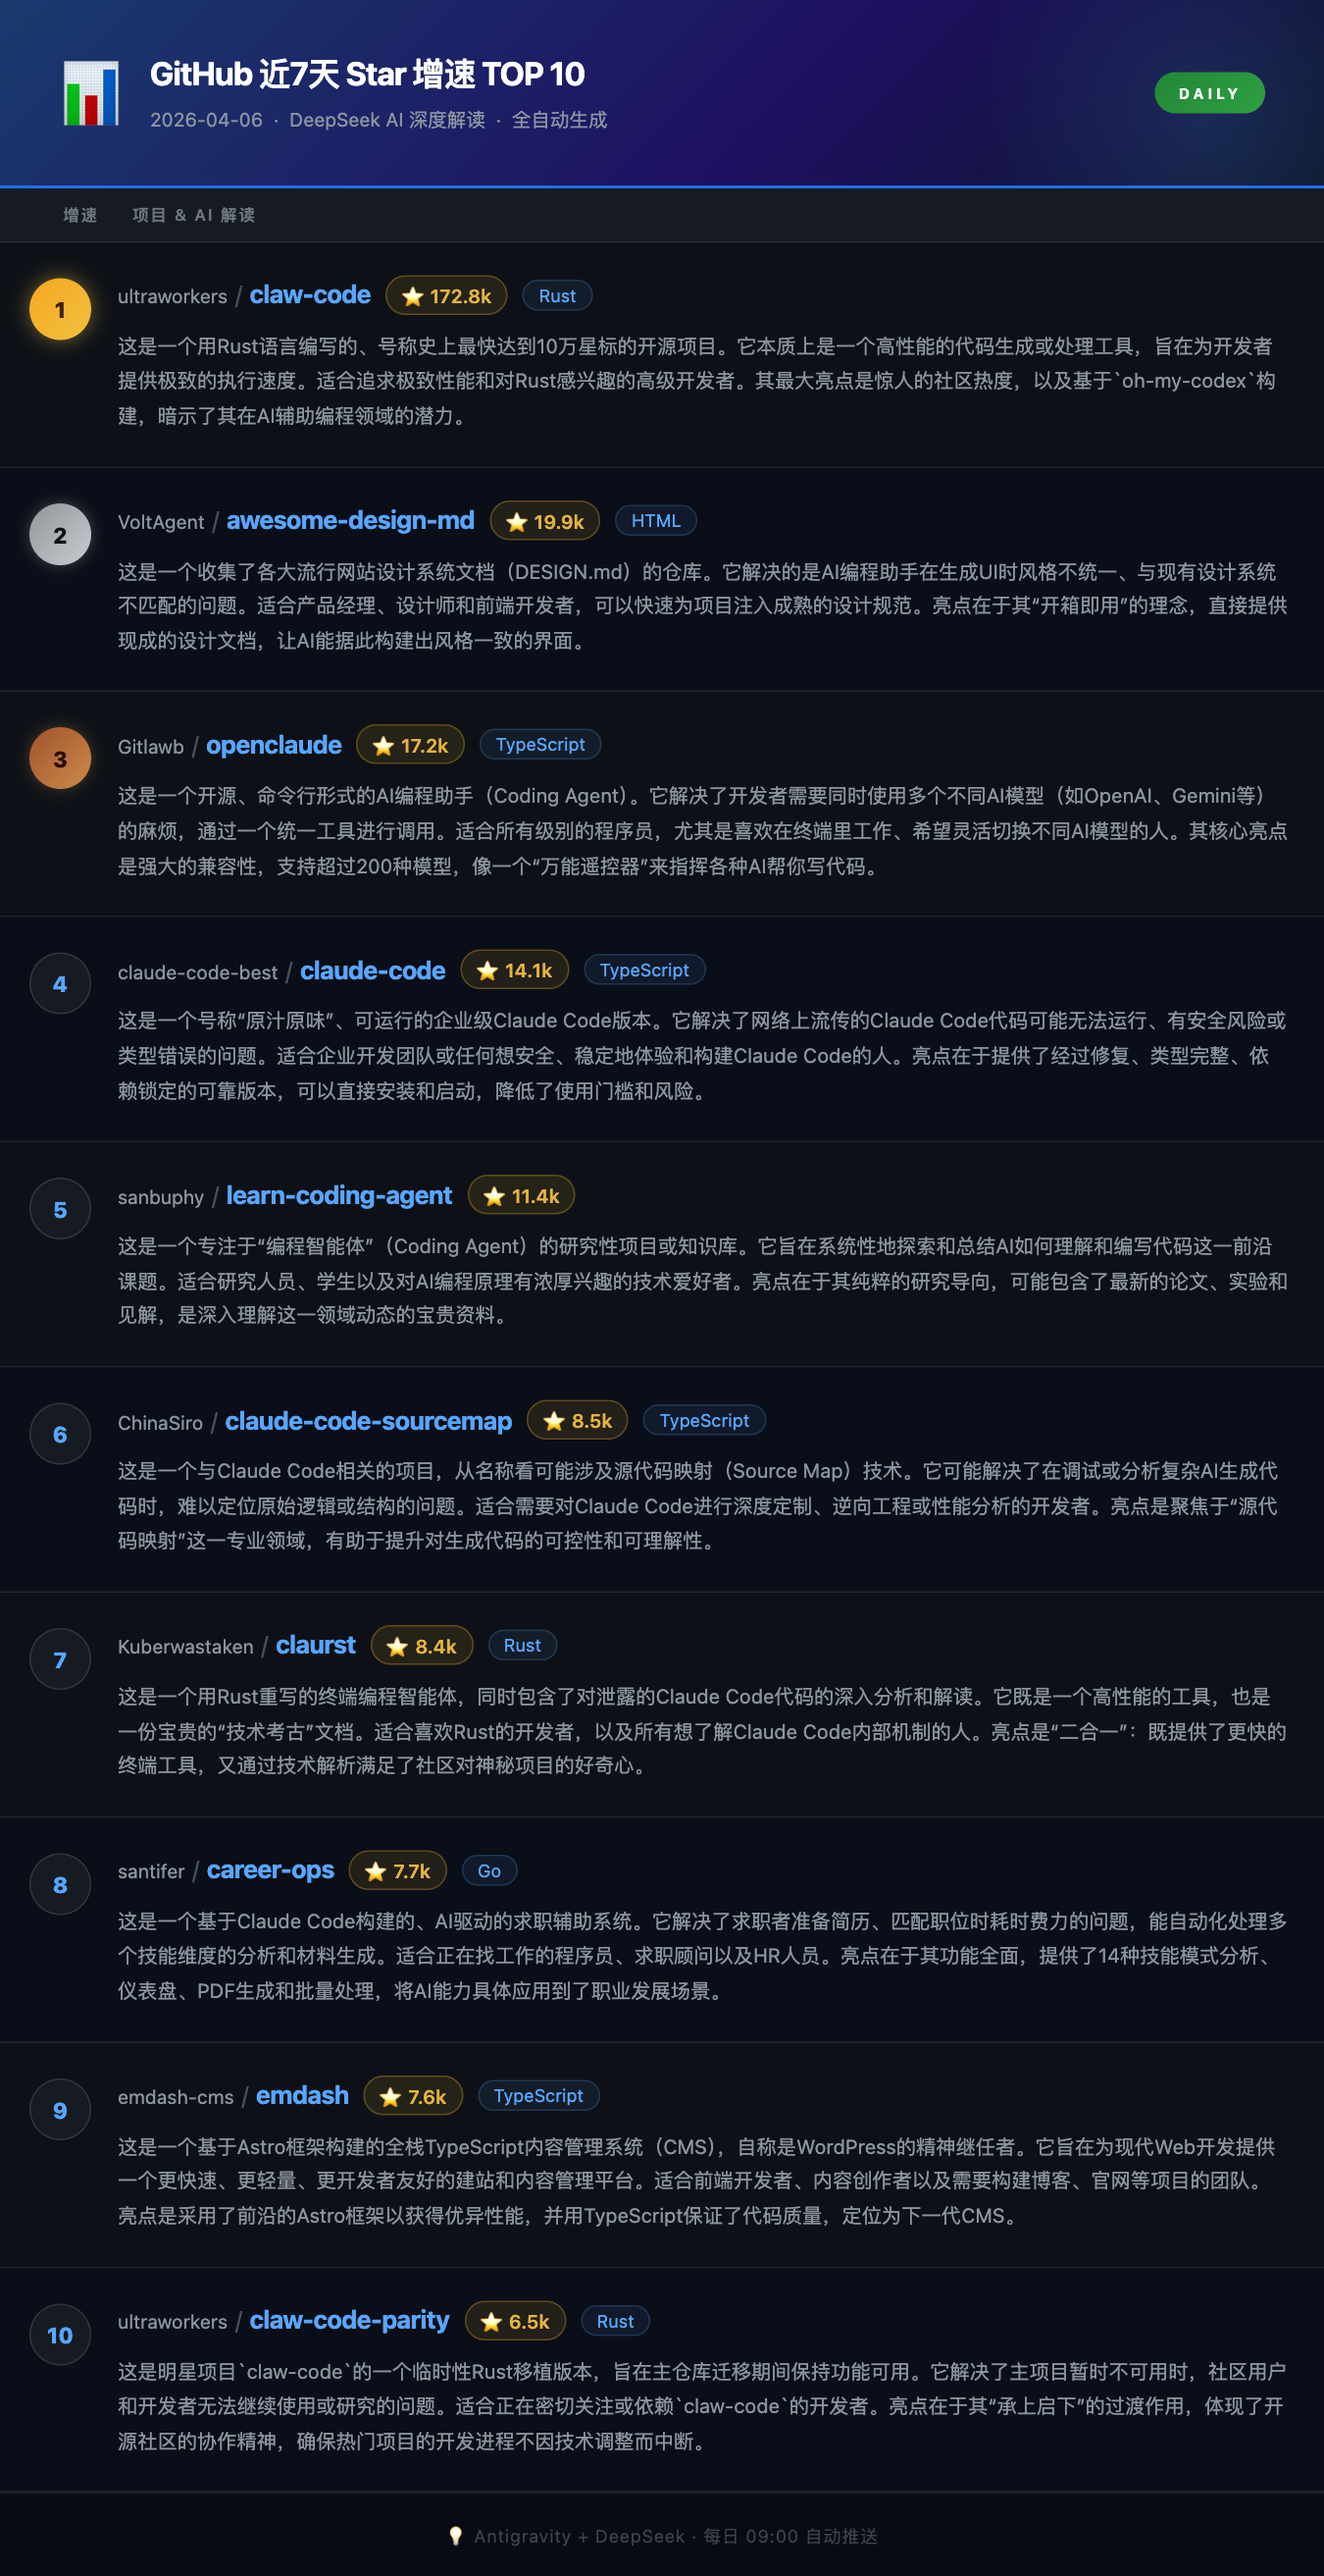
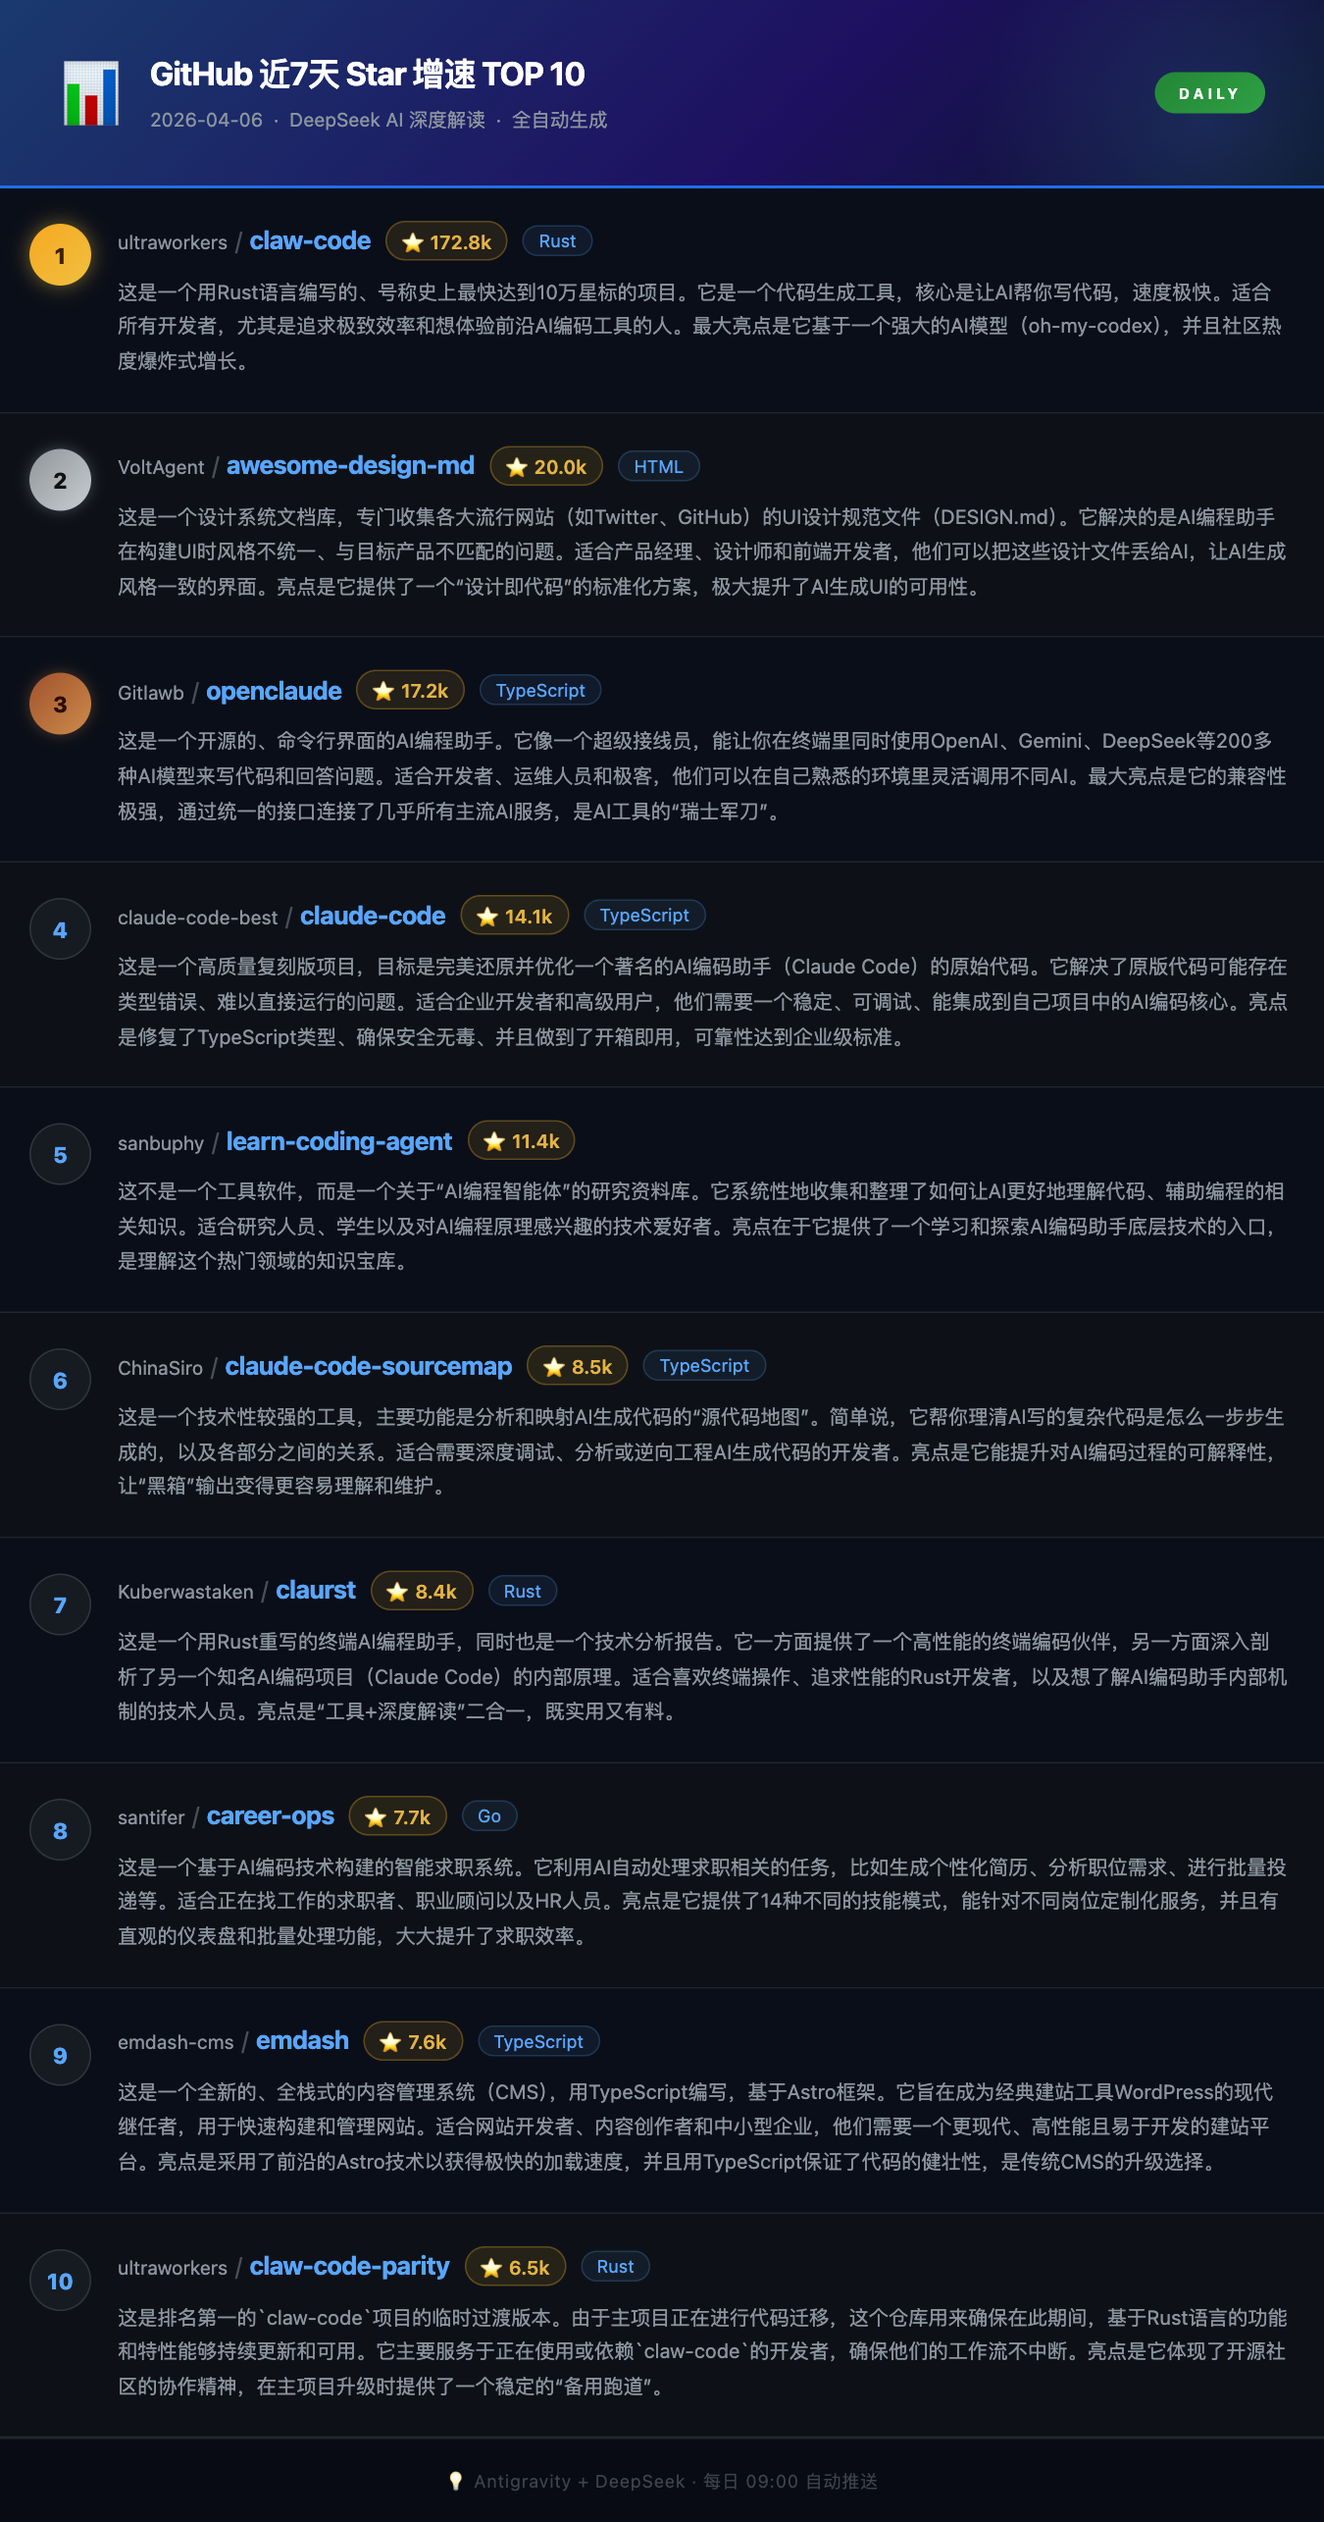
🔧 Remove col-header, add companion link message, fix send functions

diff --git a/main.py b/main.py
@@ -225,10 +225,7 @@ def generate_html(repos, summaries, today):
         </div>
         <div class="daily-badge">DAILY</div>
     </div>
-    <div class="col-header">
-        <div class="ch-rank">增速</div>
-        <div class="ch-project">项目 &amp; AI 解读</div>
-    </div>
+
     {rows_html}
     <div class="footer">💡 Antigravity + DeepSeek · 每日 09:00 自动推送</div>
 </div></body></html>"""
@@ -248,15 +245,8 @@ def render_image(html_content):
 
 
 
-def send_dingtalk_markdown_image(image_url, today):
-    """通过 Markdown 消息嵌入 GitHub Raw 图片 URL 推送钉钉（无大小限制）。"""
-    print(f"📨 正在推送至钉钉: {image_url}")
-    title = f"GitHub 近7天 Star 增速 TOP 10 · {today}"
-    text = f"### 📊 {title}\n\n![GitHub Trending]({image_url})"
-    payload = {
-        "msgtype": "markdown",
-        "markdown": {"title": title, "text": text},
-    }
+def _post_to_dingtalk(payload):
+    """通用钉钉 Webhook 发送。"""
     try:
         resp = requests.post(
             DINGTALK_WEBHOOK,
@@ -266,11 +256,31 @@ def send_dingtalk_markdown_image(image_url, today):
         )
         result = resp.json()
         if result.get("errcode") == 0:
-            print("✅ 钉钉推送成功！")
+            print("✅ 推送成功！")
         else:
-            print(f"❌ 钉钉推送失败: {result}")
+            print(f"❌ 推送失败: {result}")
     except Exception as e:
         print(f"❌ 调用钉钉接口异常: {e}")
+
+
+def send_dingtalk_image(image_url, today):
+    """消息①：图片报告（嵌入 GitHub Raw URL）。"""
+    print(f"📨 推送图片消息...")
+    title = f"GitHub 近7天 Star 增速 TOP 10 · {today}"
+    text = f"### 📊 {title}\n\n![GitHub Trending]({image_url})"
+    _post_to_dingtalk({"msgtype": "markdown", "markdown": {"title": title, "text": text}})
+
+
+def send_dingtalk_links(repos, today):
+    """消息②：紧跟图片的纯链接列表，方便一键直达仓库。"""
+    print("📨 推送链接列表消息...")
+    title = f"🔗 GitHub TOP 10 · {today} · 点击直达仓库"
+    lines = [f"**{title}**\n"]
+    for i, repo in enumerate(repos, 1):
+        short = repo['name'].split('/')[-1]
+        lines.append(f"{i}. [{repo['name']}]({repo['url']}) ⭐ {format_stars(repo['stars'])}")
+    text = "\n".join(lines)
+    _post_to_dingtalk({"msgtype": "markdown", "markdown": {"title": title, "text": text}})
 
 
 if __name__ == "__main__":
@@ -302,7 +312,8 @@ if __name__ == "__main__":
         image_url = (
             f"https://raw.githubusercontent.com/{github_repo}/{github_ref}/{image_filename}"
         )
-        send_dingtalk_markdown_image(image_url, today)
+        send_dingtalk_image(image_url, today)   # 消息①：图片报告
+        send_dingtalk_links(repos, today)        # 消息②：可点击链接列表
     else:
         print(f"ℹ  本地模式：图片已保存为 {image_filename}，请用图片查看器预览。")
         print("    推送到 GitHub 后，Actions 将自动完成钉钉推送。")
